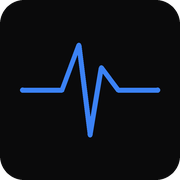
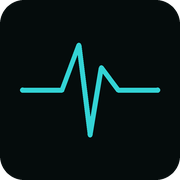
feat(ui): derive the palette from one owned accent instead of stock Tailwind
Phase 2 of the color pass. Phase 1 unified the palette behind components/tokens.py
and gated it; this changes what the values ARE.

The accent moves to #33d3d5 — OKLCh(0.79, 0.125, 196deg), a spectral teal-cyan.
It replaces #35c6ff, which measured CIEDE2000 2.5 from Tailwind sky-400: a
near-duplicate of a stock swatch, reached after an earlier pass moved off stock
blue-500 and landed on a different stock blue. The new accent is 18.6 from
sky-400 and 7.8 from its nearest Tailwind neighbour, while holding the CVD
safety of the one it replaces (worst co-occurring pair 16.5, unchanged) and its
contrast class (10.7 on --bg-base).

The neutral ramp is now GENERATED from that accent's hue at low chroma, on a
stated curve: chroma = 0.019 * exp(-((L - 0.38)/0.34)^2), skewed toward the dark
end. The rationale is tint the room, not the ink — dark surfaces are large, so a
trace of the brand hue reads as atmosphere there, while the same chroma in text
reads as a rendering fault. It replaces stock Tailwind zinc, which sat at
CIEDE2000 0.00 from the download at a hue (~286deg) unrelated to anything else
in the product.

Lightness is deliberately UNCHANGED from the zinc ramp it replaces (L* 2.8 ->
2.9, 90.7 -> 90.8, and so on). The UI's value architecture was already right;
only the hue bias was borrowed. Changing both at once would make any visual
regression impossible to attribute.

Closes a real accessibility gap in passing: --text-tertiary was stock zinc-500
[…]

Changed region(s): [[0.1111, 0.2222, 0.8889, 0.7778]]

diff --git a/assets/custom.css b/assets/custom.css
@@ -13,45 +13,53 @@
 
 /* ── Design Tokens ────────────────────────────────────── */
 :root {
-    /* Surfaces — 3 tiers (was 5). Neutral, no blue cast. */
-    --bg-base: #0a0a0b;       /* page background, deepest */
-    --bg-raised: #111113;     /* cards, dropdowns, badges */
-    --bg-hover: #18181b;      /* interactive hover state */
-    --surface-sunken: #060607; /* recessed track/inset, deeper than --bg-base */
+    /* Surfaces — 3 tiers. DERIVED from the accent's hue (196deg) at low
+     * chroma, replacing stock Tailwind zinc (which was CIEDE2000 0.00 from the
+     * download, at an unrelated hue). Same lightness as the zinc ramp it
+     * replaces — only the hue bias changed. See components/tokens.py. */
+    --bg-base: #050c0c;       /* page background, deepest */
+    --bg-raised: #0a1313;     /* cards, dropdowns, badges */
+    --bg-hover: #101a1a;      /* interactive hover state */
+    --surface-sunken: #030707; /* recessed track/inset, deeper than --bg-base */
     /* Back-compat aliases for rules still referencing the old 5-tier system. */
     --bg-elevated: var(--bg-raised);
-    --bg-overlay: rgba(10, 10, 11, 0.72);
+    --bg-overlay: rgba(5, 12, 12, 0.72);
 
     /* Borders — translucent white ramp; tightened to 0.06 / 0.12 / 0.18 */
     --border-subtle: rgba(255, 255, 255, 0.06);
     --border-default: rgba(255, 255, 255, 0.12);
     --border-strong: rgba(255, 255, 255, 0.18);
-    --border-accent: #35c6ff;
+    --border-accent: #33d3d5;
 
-    /* Text — neutral 4-tier ramp (warmer than the prior cool slate) */
-    --text-primary: #e4e4e7;
-    --text-secondary: #a1a1aa;
-    --text-tertiary: #71717a;
-    --text-disabled: #52525b;
+    /* Text — 4-tier ramp on the same derivation. --text-tertiary is SOLVED for
+     * WCAG AA (4.56:1) rather than sampled: at zinc's lightness it measured
+     * 4.09:1, below AA for the 11px chart ticks it renders. */
+    --text-primary: #e3e5e5;
+    --text-secondary: #9da4a3;
+    --text-tertiary: #707c7b;
+    --text-disabled: #485656;
     /* Back-compat alias */
     --text-muted: var(--text-disabled);
 
-    /* Accent — the brand hue, and also the demand/primary chart series, so
-     * brand color and data color are one system. Mirrored in Python as
-     * components/tokens.py ACCENT (that module is the source of truth for the
-     * Plotly layer, which cannot read custom properties; the two are asserted
-     * equal by tests/unit/test_color_tokens.py).
+    /* Accent — OKLCh(0.79, 0.125, 196deg), a spectral teal-cyan. The brand hue
+     * AND the demand/primary chart series, so brand color and data color are
+     * one system. The --text-* / --bg-* ramp above is GENERATED from this hue
+     * at low chroma (see components/tokens.py for the curve), which is what
+     * makes the palette this product's own rather than a download. Mirrored in
+     * Python as components/tokens.py ACCENT (the source of truth for the Plotly
+     * layer, which cannot read custom properties; the two are asserted equal by
+     * tests/unit/test_color_tokens.py).
      *
      * The translucent variants below are the ONLY place the accent's channels
      * may be written out — every rule references these, never a literal. Three
      * rules used to inline rgba(53, 198, 255, ...) directly, which is how this
      * hex ended up copied four ways. scripts/check_color_tokens.py now fails
      * the build on any color literal outside a custom-property declaration. */
-    --accent-base: #35c6ff;
-    --accent-hover: #63d6ff;
-    --accent-glow: rgba(53, 198, 255, 0.08);
-    --accent-dim: rgba(53, 198, 255, 0.15);
-    --accent-ring: rgba(53, 198, 255, 0.32);
+    --accent-base: #33d3d5;
+    --accent-hover: #7ce5e6;
+    --accent-glow: rgba(51, 211, 213, 0.08);
+    --accent-dim: rgba(51, 211, 213, 0.15);
+    --accent-ring: rgba(51, 211, 213, 0.32);
 
     /* Forecast — v2 orange (new; was implicit in --warning previously) */
     --forecast: #f97316;

diff --git a/components/tokens.py b/components/tokens.py
@@ -31,29 +31,114 @@ ANY edit; ``tests/unit/test_color_tokens.py`` runs the same invariants in CI.
 
 from __future__ import annotations
 
-# ── Surfaces — 3 tiers, neutral, no blue cast (mirrors --bg-*) ────────
+# ── Helpers ──────────────────────────────────────────────────────────
 
-BG_BASE = "#0a0a0b"  # --bg-base: page background, deepest
-BG_RAISED = "#111113"  # --bg-raised: cards, dropdowns, badges
-BG_HOVER = "#18181b"  # --bg-hover: interactive hover state
-SURFACE_SUNKEN = "#060607"  # --surface-sunken: recessed track/inset
 
-# ── Text — neutral 4-tier ramp (mirrors --text-*) ─────────────────────
+def rgb(color: str) -> tuple[int, int, int]:
+    """Return ``color`` as an ``(r, g, b)`` tuple.
 
-TEXT_PRIMARY = "#e4e4e7"  # --text-primary
-TEXT_SECONDARY = "#a1a1aa"  # --text-secondary
-TEXT_TERTIARY = "#71717a"  # --text-tertiary
-TEXT_DISABLED = "#52525b"  # --text-disabled
+    For PIL and any other consumer that wants channels rather than a CSS
+    string. ``scripts/generate_brand_assets.py`` previously kept its own
+    ``ACCENT_BLUE = (59, 130, 246)`` tuple — commented "--accent-base" while
+    actually holding the retired stock blue — so the generated favicon,
+    og-image and touch icon painted the brand in a color the brand had
+    already left behind. A tuple is a color literal that a hex grep cannot
+    see; deriving it from a token closes that hole.
+
+    Args:
+        color: A ``#rrggbb`` token from this module.
+
+    Returns:
+        ``(r, g, b)`` with each channel in ``[0, 255]``.
+    """
+    h = color.lstrip("#")
+    if len(h) != 6:
+        raise ValueError(f"rgb() expects #rrggbb, got {color!r}")
+    return tuple(int(h[i : i + 2], 16) for i in (0, 2, 4))  # type: ignore[return-value]
+
+
+def alpha(color: str, a: float) -> str:
+    """Return ``color`` as an ``rgba()`` string at alpha ``a``.
+
+    The reason this exists: an ``rgba(59, 130, 246, 0.08)`` literal is a color
+    literal that a hex grep does not catch. Two such literals had already
+    drifted off their own line color — the Overview hero drew an accent line
+    over a stock-blue fill, and the Forecast band used the retired #38D0FF.
+    Building translucent fills from a token keeps a fill tied to its source
+    color by construction.
+
+    Args:
+        color: A ``#rrggbb`` token from this module.
+        a: Alpha in ``[0, 1]``.
+
+    Returns:
+        An ``rgba(r, g, b, a)`` string.
+    """
+    h = color.lstrip("#")
+    if len(h) != 6:
+        raise ValueError(f"alpha() expects #rrggbb, got {color!r}")
+    r, g, b = (int(h[i : i + 2], 16) for i in (0, 2, 4))
+    return f"rgba({r}, {g}, {b}, {a})"
+
+
+# ── Token values ─────────────────────────────────────────────────────
+# ── The neutral ramp — DERIVED, not downloaded ───────────────────────
+#
+# Every neutral below is generated from the ACCENT's own hue (196°) at low
+# chroma, on a deliberate curve. It replaces stock Tailwind zinc, which sat at
+# CIEDE2000 0.00 from the download — literally the shipped values, at a hue
+# (~286°) unrelated to anything else in the product.
+#
+# The curve: chroma = 0.019 · exp(−((L − 0.38)/0.34)²), skewed toward the DARK
+# end rather than symmetric. The rationale is TINT THE ROOM, NOT THE INK. Dark
+# surfaces are large, so a trace of the brand hue there reads as atmosphere;
+# the same chroma in text reads as a rendering fault, so it tapers off as
+# lightness rises. Zinc's curve peaks at ~0.0146 around mid-tone and is
+# symmetric — a different shape, for no reason, because it was never chosen.
+#
+# LIGHTNESS IS DELIBERATELY UNCHANGED from the zinc ramp it replaces (L* 2.8 →
+# 2.9, 90.7 → 90.8, and so on). The value architecture of the UI was already
+# right; only the hue bias was borrowed. Changing both at once would have made
+# a visual regression impossible to attribute.
+#
+# The one exception is --text-tertiary, lifted from L* 47.9 to 51.0. At zinc's
+# lightness it measured 4.09:1 on --bg-base — below WCAG AA for normal text,
+# while rendering 11px chart tick labels. Its lightness is now SOLVED for
+# 4.55:1 rather than sampled and hoped for.
+
+BG_BASE = "#050c0c"  # --bg-base: page background, deepest
+BG_RAISED = "#0a1313"  # --bg-raised: cards, dropdowns, badges
+BG_HOVER = "#101a1a"  # --bg-hover: interactive hover state
+SURFACE_SUNKEN = "#030707"  # --surface-sunken: recessed track/inset
+
+TEXT_PRIMARY = "#e3e5e5"  # --text-primary
+TEXT_SECONDARY = "#9da4a3"  # --text-secondary
+TEXT_TERTIARY = "#707c7b"  # --text-tertiary — solved for AA, not sampled
+TEXT_DISABLED = "#485656"  # --text-disabled (WCAG 1.4.3 exempts inactive UI)
 
 # ── Accent — the brand hue (mirrors --accent-base / --accent-hover) ───
 #
+# OKLCh(0.79, 0.125, 196°) — a spectral teal-cyan, and the anchor the neutral
+# ramp above is generated from.
+#
+# It replaces #35c6ff, which was CIEDE2000 2.5 from Tailwind sky-400: a
+# near-duplicate of a stock swatch, reached after a previous pass had moved off
+# stock blue-500 and landed on a different stock blue. This one is 18.6 from
+# sky-400 and 7.8 from its nearest Tailwind neighbour.
+#
+# Distance from Tailwind is NOT the point and is a poor target on its own —
+# Tailwind's 242 swatches tile color space, so optimising for pure distance
+# drives you to neon (#00fdfd), the least owned color there is. What makes this
+# palette the product's own is that ONE anchor generates the neutrals through a
+# stated curve, and every relationship in it is measured.
+#
 # This is ALSO the demand/primary data series (``COLORS["actual"]``,
 # ``LINE_STYLES["actual"]``, ``_COLORWAY[0]``) so brand color and data color
-# are one system rather than two. Verified in ``scripts/verify_palette.py``
-# to clear every series it shares a figure with under all three CVD types.
+# are one system rather than two. ``scripts/verify_palette.py`` proves it
+# clears every series it shares a figure with under all three CVD types.
 
-ACCENT = "#35c6ff"  # --accent-base
-ACCENT_SOFT = "#63d6ff"  # --accent-hover
+ACCENT = "#33d3d5"  # --accent-base
+ACCENT_SOFT = "#7ce5e6"  # --accent-hover
 
 # ── Forecast + semantic (mirrors --forecast / --success / ...) ────────
 
@@ -161,7 +246,7 @@ FUEL_COLORS = {
     "other": "#898d91",  # L* 58.4 — neutral gray
     "nuclear": "#b13554",  # L* 42.1 — wine; see "why not purple" below
     "hydro": "#2672b7",  # L* 46.8 — mid blue; dropped to clear nuclear
-    "wind": "#a4d1ac",  # L* 79.9 — pale green; kept off the accent's cyan
+    "wind": "#b7cca4",  # L* 79.6 — sage; pulled off the accent's cyan (was 12.0, now 19.4)
     "solar": "#f9e03f",  # L* 88.8 — bright sun yellow
 }
 
@@ -215,10 +300,10 @@ WEATHER_DRIVERS = {
 # ── US-Grid choropleth ───────────────────────────────────────────────
 
 MAP_LAND = BG_RAISED
-MAP_COASTLINE = "#27272a"
-MAP_SUBUNIT = "#1f1f23"
+MAP_COASTLINE = "#1e2a2a"
+MAP_SUBUNIT = "#172222"
 MAP_AXIS_FONT = TEXT_TERTIARY
-MAP_BORDER = "rgba(228, 228, 231, 0.5)"
+MAP_BORDER = alpha(TEXT_PRIMARY, 0.5)
 
 # Utilization / grid-stress colorscale (0 = idle headroom -> 1 = peak).
 #
@@ -246,53 +331,3 @@ MAP_COLORSCALE = [
 # with no "this one doesn't count" escape hatch. The last convention rotted
 # because it was a comment rather than a rule.
 ICON_MASK_STROKE = "#000"
-
-
-# ── Helpers ──────────────────────────────────────────────────────────
-
-
-def rgb(color: str) -> tuple[int, int, int]:
-    """Return ``color`` as an ``(r, g, b)`` tuple.
-
-    For PIL and any other consumer that wants channels rather than a CSS
-    string. ``scripts/generate_brand_assets.py`` previously kept its own
-    ``ACCENT_BLUE = (59, 130, 246)`` tuple — commented "--accent-base" while
-    actually holding the retired stock blue — so the generated favicon,
-    og-image and touch icon painted the brand in a color the brand had
-    already left behind. A tuple is a color literal that a hex grep cannot
-    see; deriving it from a token closes that hole.
-
-    Args:
-        color: A ``#rrggbb`` token from this module.
-
-    Returns:
-        ``(r, g, b)`` with each channel in ``[0, 255]``.
-    """
-    h = color.lstrip("#")
-    if len(h) != 6:
-        raise ValueError(f"rgb() expects #rrggbb, got {color!r}")
-    return tuple(int(h[i : i + 2], 16) for i in (0, 2, 4))  # type: ignore[return-value]
-
-
-def alpha(color: str, a: float) -> str:
-    """Return ``color`` as an ``rgba()`` string at alpha ``a``.
-
-    The reason this exists: an ``rgba(59, 130, 246, 0.08)`` literal is a color
-    literal that a hex grep does not catch. Two such literals had already
-    drifted off their own line color — the Overview hero drew an accent line
-    over a stock-blue fill, and the Forecast band used the retired #38D0FF.
-    Building translucent fills from a token keeps a fill tied to its source
-    color by construction.
-
-    Args:
-        color: A ``#rrggbb`` token from this module.
-        a: Alpha in ``[0, 1]``.
-
-    Returns:
-        An ``rgba(r, g, b, a)`` string.
-    """
-    h = color.lstrip("#")
-    if len(h) != 6:
-        raise ValueError(f"alpha() expects #rrggbb, got {color!r}")
-    r, g, b = (int(h[i : i + 2], 16) for i in (0, 2, 4))
-    return f"rgba({r}, {g}, {b}, {a})"

diff --git a/scripts/check_color_tokens.py b/scripts/check_color_tokens.py
@@ -38,6 +38,7 @@ Usage:
 
 from __future__ import annotations
 
+import ast
 import io
 import pathlib
 import re
@@ -108,6 +109,37 @@ def _iter_py() -> list[pathlib.Path]:
     return [p for p in sorted(set(out)) if p not in PY_EXCLUDE]
 
 
+def _docstring_lines(src: str) -> set[int]:
+    """Line numbers of real docstrings — prose, which cannot paint anything.
+
+    Only the first statement of a module/class/function counts. An earlier
+    version skipped EVERY triple-quoted string, which let app.py's
+    ``index_string`` — a triple-quoted HTML template carrying
+    ``<link rel="mask-icon" color="#35c6ff">`` — sail straight through the
+    gate. Triple quotes mean nothing about whether a string reaches a browser.
+    """
+    lines: set[int] = set()
+    try:
+        tree = ast.parse(src)
+    except SyntaxError:
+        return lines
+    for node in ast.walk(tree):
+        if not isinstance(node, (ast.Module, ast.ClassDef, ast.FunctionDef, ast.AsyncFunctionDef)):
+            continue
+        body = getattr(node, "body", None)
+        if not body:
+            continue
+        first = body[0]
+        if (
+            isinstance(first, ast.Expr)
+            and isinstance(first.value, ast.Constant)
+            and isinstance(first.value.value, str)
+        ):
+            for ln in range(first.lineno, (first.end_lineno or first.lineno) + 1):
+                lines.add(ln)
+    return lines
+
+
 def check_python(path: pathlib.Path) -> list[tuple[int, str]]:
     """Return (lineno, offending literal) for color literals in STRING tokens."""
     hits: list[tuple[int, str]] = []
@@ -119,16 +151,15 @@ def check_python(path: pathlib.Path) -> list[tuple[int, str]]:
         toks = list(tokenize.generate_tokens(io.StringIO(src).readline))
     except (tokenize.TokenError, IndentationError, SyntaxError):
         return hits
+    skip = _docstring_lines(src)
     for tok in toks:
         # STRING covers plain strings; FSTRING_MIDDLE covers the literal text
         # between {} in an f-string on 3.12+, so f"1px solid #263556" is caught.
         if tok.type not in (tokenize.STRING, getattr(tokenize, "FSTRING_MIDDLE", -1)):
             continue
-        text = tok.string
-        # A docstring is prose; skip triple-quoted strings so the token module
-        # can be *described* elsewhere without tripping the gate.
-        if text.startswith(('"""', "'''", 'r"""', "r'''")):
+        if tok.start[0] in skip:
             continue
+        text = tok.string
         for m in HEX_RE.finditer(text):
             hits.append((tok.start[0], m.group(0)))
         if HEX3_RE.match(text.strip("\"'")):

diff --git a/app.py b/app.py
@@ -33,6 +33,8 @@ import structlog  # noqa: E402
 from flask import Flask, jsonify, request  # noqa: E402
 from flask_compress import Compress  # noqa: E402
 
+from components import tokens  # noqa: E402
+
 log = structlog.get_logger()
 
 # Flask server (needed for gunicorn and health/metrics endpoints)
@@ -117,7 +119,7 @@ app.index_string = """<!DOCTYPE html>
     <link rel="icon" type="image/svg+xml" href="/assets/favicon.svg">
     <link rel="alternate icon" type="image/x-icon" href="/assets/favicon.ico">
     <link rel="apple-touch-icon" sizes="180x180" href="/assets/apple-touch-icon.png">
-    <link rel="mask-icon" href="/assets/favicon.svg" color="#35c6ff">
+    <link rel="mask-icon" href="/assets/favicon.svg" color="__ACCENT__">
     <meta name="description" content="Forecast demand, monitor grid utilization, and audit model accuracy across U.S. balancing authorities.">
     <meta property="og:type" content="website">
     <meta property="og:title" content="GridPulse — Energy Intelligence Platform">
@@ -137,6 +139,13 @@ app.index_string = """<!DOCTYPE html>
     <footer>{%config%}{%scripts%}{%renderer%}</footer>
   </body>
 </html>"""
+
+# Safari's mask-icon does not resolve CSS custom properties, so the accent has
+# to appear as a real value in <head>. Substituted from the token rather than
+# typed, so the brand color in the document head cannot drift from the brand.
+# (index_string is a plain string, not an f-string: Dash's {%app_entry%}
+# placeholders would each need brace-escaping.)
+app.index_string = app.index_string.replace("__ACCENT__", tokens.ACCENT)
 
 # Layout
 from components.layout import build_layout  # noqa: E402
